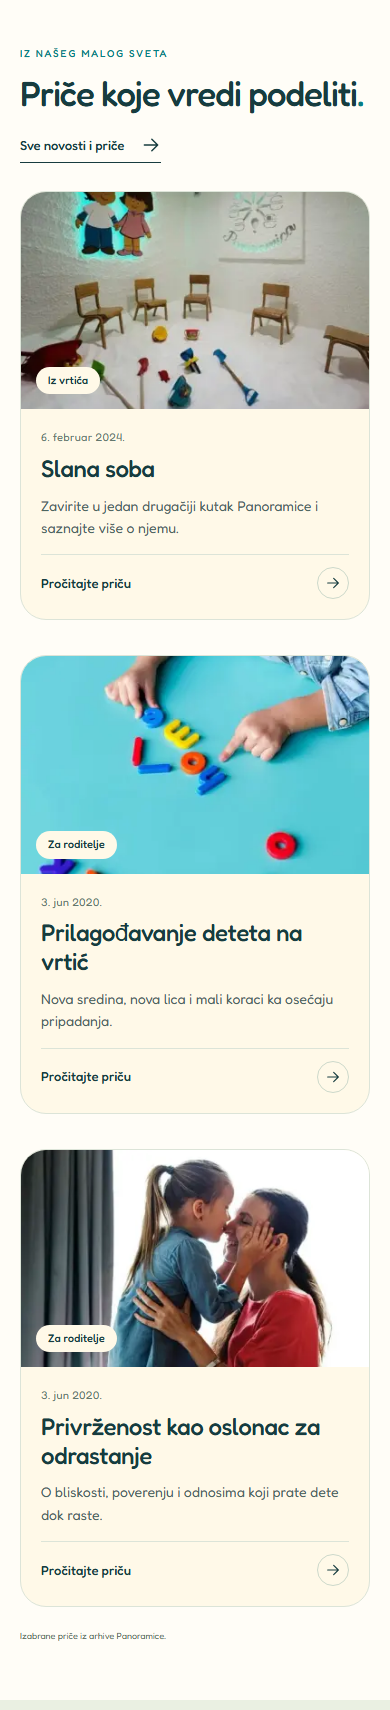
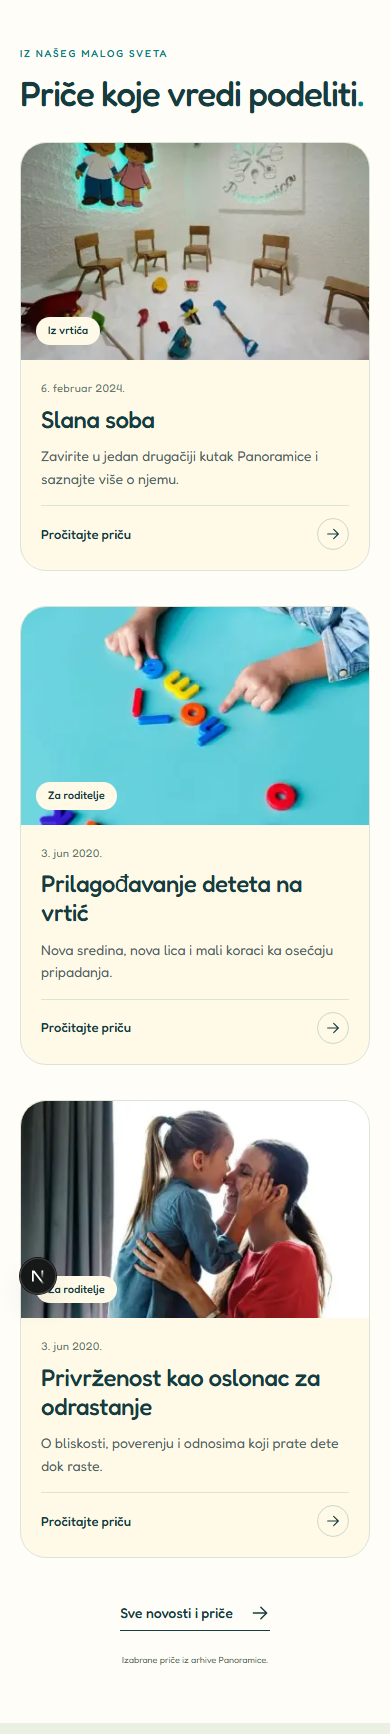
first version before sending to customer

diff --git a/app/page.tsx b/app/page.tsx
@@ -59,9 +59,9 @@ export default function Home() {
       </div></section>
 
       <section id="novosti" className="section news-section" aria-labelledby="news-title"><div className="container">
-        <div className="section-heading" data-reveal><div><span className="eyebrow">Iz našeg malog sveta</span><h2 id="news-title">Priče koje vredi<br className="desktop-break" /> podeliti<span className="accent-dot">.</span></h2></div><div className="section-heading-aside"><p>Iz vrtića, za roditelje,<br />za sve naše male i velike korake.</p><TextLink href={`${official}/category/vrtic-panoramica/`}>Sve novosti i priče</TextLink></div></div>
+        <div className="section-heading" data-reveal><div><span className="eyebrow">Iz našeg malog sveta</span><h2 id="news-title">Priče koje vredi<br className="desktop-break" /> podeliti<span className="accent-dot">.</span></h2></div></div>
         <div className="news-grid">{news.map((item, index) => <article className="news-card" key={item.href} data-reveal style={{ "--reveal-delay": `${index * 90}ms` } as CSSProperties}><PresentationLink href={`${official}${item.href}`} className="news-image" aria-label={`Pročitajte priču: ${item.title}`}><Image src={`/images/panoramica/${item.image}.webp`} alt={item.alt} width={580} height={375} sizes="(max-width: 600px) 90vw, (max-width: 750px) 45vw, 380px" /><span className="news-category">{item.category}</span></PresentationLink><div className="news-body"><time dateTime={item.date}>{item.displayDate}</time><h3><PresentationLink href={`${official}${item.href}`}>{item.title}</PresentationLink></h3><p>{item.description}</p><PresentationLink className="news-read" href={`${official}${item.href}`} aria-label={`Pročitajte: ${item.title}`}>Pročitajte priču <span><Icon name="arrow" /></span></PresentationLink></div></article>)}</div>
-        <p className="archive-note">Izabrane priče iz arhive Panoramice.</p>
+        <div className="news-bottom"><TextLink href={`${official}/category/vrtic-panoramica/`}>Sve novosti i priče</TextLink><p className="archive-note">Izabrane priče iz arhive Panoramice.</p></div>
       </div></section>
 
       <section id="o-vrticu" className="section about-section" aria-labelledby="about-title"><div className="container about-grid">

diff --git a/app/globals.css b/app/globals.css
@@ -140,6 +140,7 @@ summary::-webkit-details-marker { display: none; }
 .news-read .icon { width: 16px; height: 16px; }
 .news-read:hover { color: var(--teal-dark); }
 .news-read:hover > span { background: var(--teal); border-color: var(--teal); color: var(--ink); transform: rotate(-30deg); }
+.news-bottom { margin-top: 40px; text-align: center; }
 .archive-note { font-size: 11px; margin-top: 25px; color: #607063; }
 .about-section { background: #eaf0e2; }
 .about-section .eyebrow, .gallery-section .eyebrow { color: #086a72; }
@@ -365,6 +366,8 @@ summary::-webkit-details-marker { display: none; }
 
 /* Phones */
 @media (max-width: 600px) {
+.contact-copy > .button { width: 100%; }
+.news-bottom .text-link { font-size: 14px; }
   html { scroll-padding-top: 85px; } .draft-bar { font-size: 10px; } .draft-bar > .container { min-height: 28px; } .draft-bar a { font-size: 9px; gap: 4px; } .draft-bar a > .icon { display: none; }
   .header-inner { min-height: 80px; gap: 12px; } .brand { width: 172px; } .header-cta { font-size: 13px; padding: 11px 16px; min-height: 42px; gap: 3px; } .header-cta > .icon:last-child { width: 16px; height: 16px; margin-left: 3px; } .menu-toggle { height: 39px; width: 39px; flex-shrink: 0; } .menu-toggle .icon { height: 20px; width: 20px; } .is-compact .brand { width: 160px; } .is-compact .header-inner { min-height: 70px; } .mobile-nav:not([hidden]) { padding-inline: 20px; }
   .hero { padding: 35px 0 63px; } .hero-eyebrow { font-size: 10px; letter-spacing: 1.1px; margin-bottom: 22px; gap: 7px; } .hero-eyebrow > span { width: 5px; height: 5px; }

diff --git a/docs/QA.md b/docs/QA.md
@@ -65,6 +65,8 @@ Ovaj pregled prethodi sledećim korekcijama hijerarhije dugmadi i uklanjanju kon
 
 ## Sačuvani pregledi
 
+Završni mobilni CTA je proširen na 100% širine tekstualnog dela kontakt bloka. Na 360 i 390 px izmerena je jednaka širina dugmeta i sadržaja. „Sve novosti i priče” je ispod svih kartica i centrirano na svih pet ciljnih širina; stari uvodni tekst iz zaglavlja novosti je uklonjen. Nema horizontalnog preliva ni JavaScript grešaka, a lint i build prolaze. Pregledi novosti i kontakt sekcije su osveženi.
+
 Poslednja korekcija mobilnog zaglavlja proverena je direktno u aktivnoj razvojnoj verziji na svih pet ciljnih širina. Na mobilnim širinama zaglavlje sadrži logo i burger, burger ima 15 px zaobljenje, a meni sadrži primarni CTA širine tačno 90% ekrana, bez prikaza ranijeg broja telefona. Otvaranje, Escape, povratak fokusa, Kontakt navigacija i prezentaciono isključen poziv rade. Desktop CTA ostaje vidljiv. Novi naslov „Dva prostora. Ista ljubav, ista pažnja.” provereno je ispisan. Nema horizontalnog preliva ni JavaScript grešaka; lint i build prolaze. Razvojni server je ponovo pokrenut da bi prestao da prikazuje zastareli CSS.
 
 - [Otvoren mobilni meni](previews/mobile-menu-390.png)

diff --git a/PRD.md b/PRD.md
@@ -511,3 +511,9 @@ Ove novije korisnikove odluke imaju prednost u odnosu na ranije predloge:
 - Desktop zaglavlje zadržava dugme „Pozovite nas”.
 - Naslov sekcije objekata glasi „Dva prostora. Ista ljubav, ista pažnja.”
 - Na hover linka „Pročitajte priču” u karticama novosti kružić sa strelicom koristi primarnu tirkiznu `#25B4BC`, a tekst tamniju tirkiznu.
+
+## 22. Završni CTA i odredište svih novosti
+
+- Na telefonu završno dugme „Pozovite nas” zauzima 100% raspoložive širine unutar tekstualnog dela kontakt bloka.
+- „Sve novosti i priče” se prikazuje ispod svih kartica novosti, centrirano i na telefonu i na računaru.
+- Uvodni tekst „Iz vrtića, za roditelje, za sve naše male i velike korake.” iznad tog dugmeta se uklanja.
